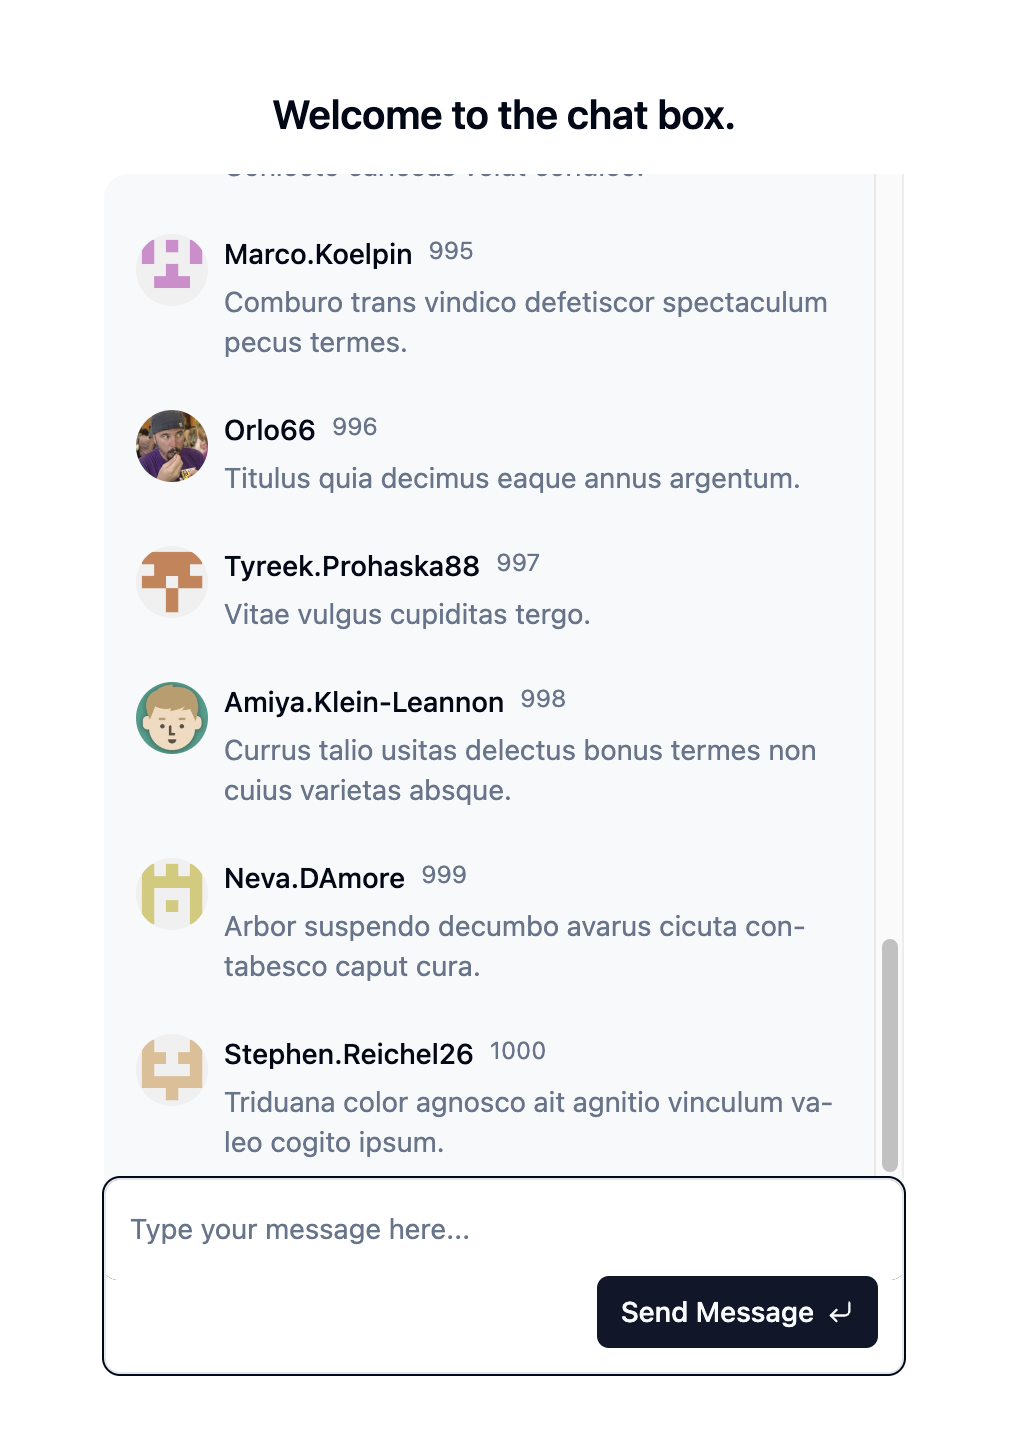
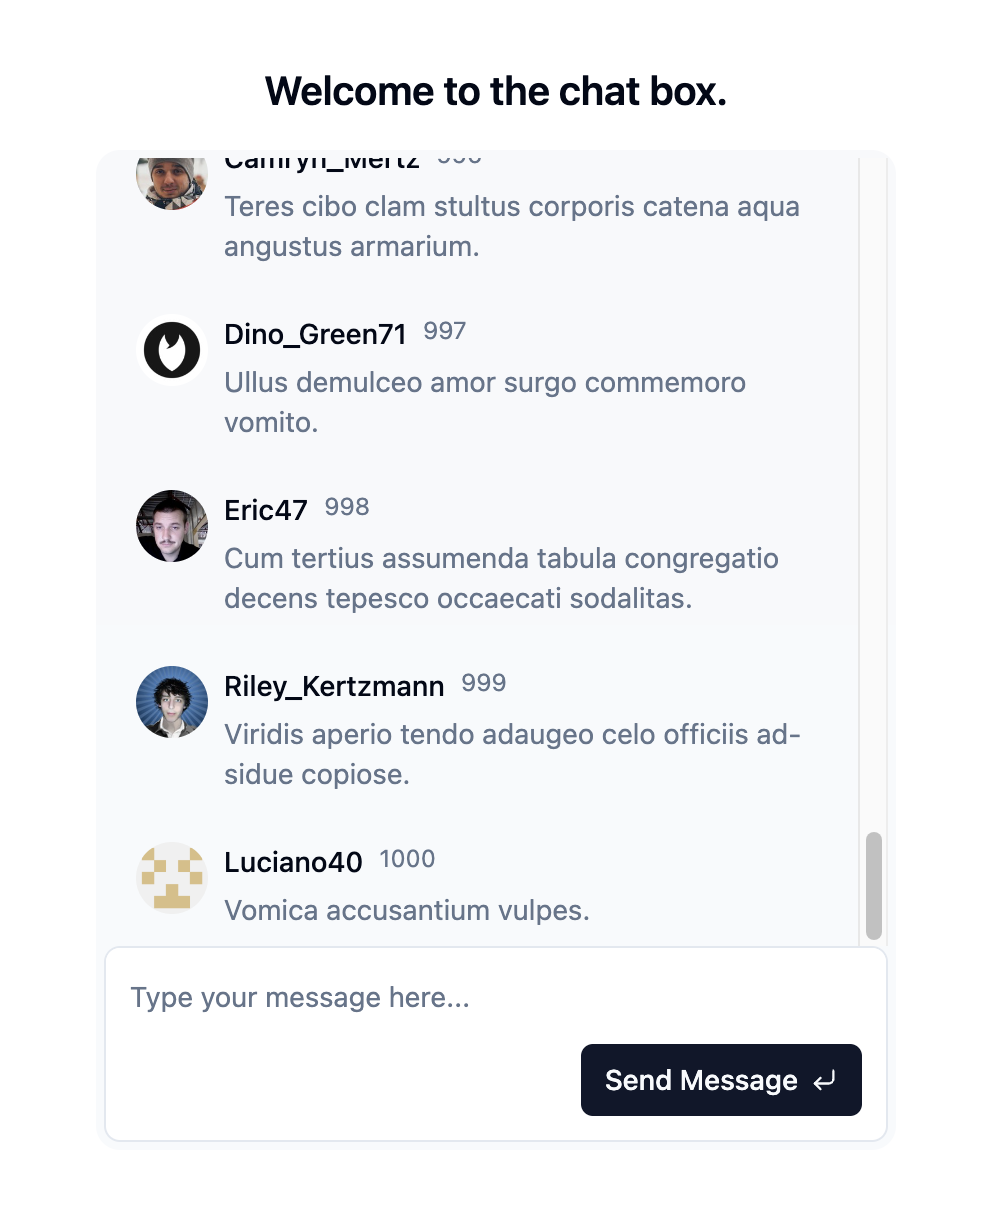
update

diff --git a/src/components/chat-box/message-list.tsx b/src/components/chat-box/message-list.tsx
@@ -85,7 +85,7 @@ function MessageList({ messages, setMessages, scrollRef }: MessageListProps) {
   const isShowScrollDownButton = lastItem && lastItem.index !== count - 1;
 
   return (
-    <div className="h-full">
+    <div className="h-full flex flex-col overflow-auto">
       <div className="h-full overflow-auto" ref={parentRef}>
         <div
           style={{
@@ -129,10 +129,7 @@ function MessageList({ messages, setMessages, scrollRef }: MessageListProps) {
           isShowScrollDownButton ? "visible" : "invisible"
         )}
         onClick={() => {
-          virtualizer.scrollToIndex(count - 1, {
-            align: "end",
-            behavior: "smooth",
-          });
+          virtualizer.scrollToIndex(count - 1);
         }}
       >
         <MoveDown className="size-4" />

diff --git a/src/components/chat-box/index.tsx b/src/components/chat-box/index.tsx
@@ -27,7 +27,7 @@ export default function ChatBox() {
   });
 
   return (
-    <div className="relative flex w-[400px] max-h-[600px] flex-col rounded-xl bg-muted/50">
+    <div className="relative overflow-y-auto p-1 flex w-[400px] h-[500px] flex-col rounded-xl bg-muted/50">
       <MessageList
         scrollRef={scrollRef}
         messages={messages}
